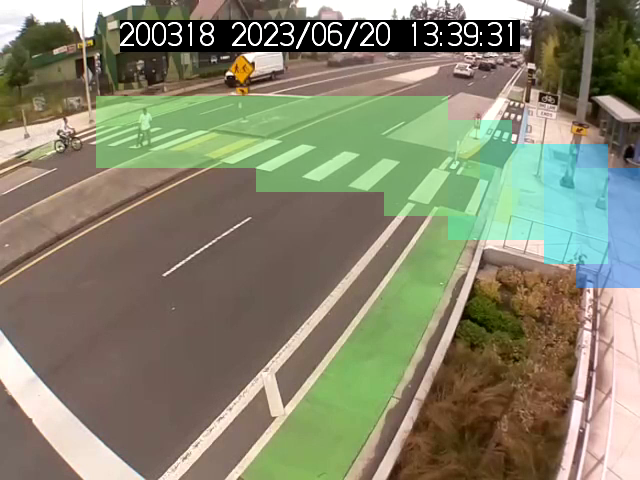
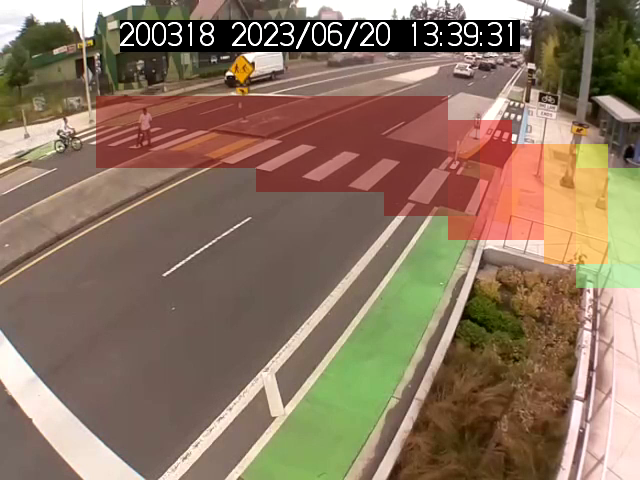
PET updates

Changed region(s): [[0.125, 0.1875, 1.0, 0.625]]

diff --git a/PET_deepSORT.py b/PET_deepSORT.py
@@ -3,6 +3,11 @@ Post Encroachment Time (PET) conflict zone detection.
 Uses a grid over the frame to detect when pedestrians and cyclists share or recently
 shared the same zone within a time window, computes PET, and outputs conflict events to CSV
 and a video with highlighted conflict zones.
+
+PET definition (standard): PET(A1,A2,CA) = t_entry(A2,CA) - t_exit(A1,CA), the time gap
+between one actor leaving and the other entering the conflict area; scale [0, inf) s.
+PET is undefined when both occupy the conflict area before either leaves (overlap).
+Reference: https://criticality-metrics.readthedocs.io/en/latest/time-scale/PET.html
 """
 import cv2
 import argparse
@@ -13,6 +18,9 @@ import torch
 import numpy as np
 import pandas as pd
 from tqdm import tqdm
+import matplotlib
+matplotlib.use("Agg")
+import matplotlib.pyplot as plt
 from deep_sort_realtime.deepsort_tracker import DeepSort
 
 # --- Configuration ---
@@ -100,28 +108,26 @@ def _neighbor_cells(r, c, grid_rows, grid_cols, include_self=True):
 
 def _build_heatmap_image(cell_pet_values, grid_rows, grid_cols, width, height, fps, max_pet_time, first_frame):
     """
-    Build a heatmap image: grid with average signed PET per cell.
-    Negative PET = overlap = higher risk = red; positive = lower risk = blue.
+    Build a heatmap: average standard PET per cell (PET in [0, inf), time gap).
+    Low PET = more critical = red; high PET = less critical = blue.
     Returns BGR image (faint overlay over first_frame).
     """
     max_sec = max_pet_time / fps if fps > 0 else 1.0
-    # Grid of average signed PET (seconds); NaN where no data
+    # Grid of average standard PET (seconds) per cell; NaN where no data
     heat = np.full((grid_rows, grid_cols), np.nan, dtype=np.float64)
     for (r, c), values in cell_pet_values.items():
         if 0 <= r < grid_rows and 0 <= c < grid_cols and values:
-            heat[r, c] = np.mean(values)
+            # Standard PET = |signed|; overlap (0) is most critical
+            heat[r, c] = np.mean([abs(v) for v in values])
 
-    # Normalize: signed PET in [-max_sec, max_sec] -> 0-255 for colormap
-    # 0 = most negative (red/high risk), 128 = zero, 255 = most positive (blue/lower risk)
+    # Normalize: standard PET in [0, max_sec] -> 0 = red (critical), high = blue (safe)
     heat_uint8 = np.full((grid_rows, grid_cols), 128, dtype=np.uint8)  # no-data = 128 (gray)
     valid = ~np.isnan(heat)
     if np.any(valid):
-        v = np.clip(heat[valid], -max_sec, max_sec)
-        # 0 -> 255 (red), 0.5 -> 128, 1 -> 0 (blue). So idx = (1 - (v + max_sec) / (2*max_sec)) * 255
-        norm = (v + max_sec) / (2.0 * max_sec)
-        heat_uint8[valid] = (255 * (1.0 - norm)).clip(0, 255).astype(np.uint8)
+        v = np.clip(heat[valid], 0.0, max_sec)
+        norm = v / max_sec  # 0 -> 0, max_sec -> 1
+        heat_uint8[valid] = (255 * (1.0 - norm)).clip(0, 255).astype(np.uint8)  # 0 PET -> 255 (red), high -> 0 (blue)
 
-    # OpenCV JET: 0=blue, 255=red. We have high uint8 = negative PET = risk, so we want red.
     heat_color = cv2.applyColorMap(heat_uint8, cv2.COLORMAP_JET)
     heat_color = cv2.resize(heat_color, (width, height), interpolation=cv2.INTER_NEAREST)
 
@@ -192,6 +198,9 @@ def process_video(
     # Per-cell signed PET values for heatmap (average PET per cell); negative = overlap = higher risk
     cell_pet_values = defaultdict(list)
 
+    # Per-frame PET values for "average PET over time" plot
+    frame_to_pets = defaultdict(list)
+
     # Only record when a cell newly enters conflict (not every frame) to get one row per incident
     conflict_cells_previous_frame = set()
 
@@ -227,6 +236,7 @@ def process_video(
                 conf=confidence_threshold,
                 iou=iou_threshold,
                 agnostic_nms=False,
+                verbose=False,
             )
 
             boxes_data = []
@@ -306,7 +316,12 @@ def process_video(
                 if not ped_list or not cyc_list:
                     continue
 
-                # PET: minimum absolute time difference and signed PET (negative = temporal overlap = higher risk)
+                # Post Encroachment Time (PET): time gap between one actor leaving and the other
+                # entering the conflict area (CA). Definition: PET(A1,A2,CA) = t_entry(A2,CA) - t_exit(A1,CA)
+                # with t_entry(A2) >= t_exit(A1); scale [0, inf) s. PET undefined when both occupy CA
+                # before either leaves (overlap). See: https://criticality-metrics.readthedocs.io/en/latest/time-scale/PET.html
+                # We use frame indices as proxies for presence in the cell; minimum gap over (ped,cyclist)
+                # pairs gives PET = |t2 - t1|/fps (standard PET, non-negative). Overlap = same frame -> PET undefined (we output 0).
                 pet_frames = None
                 signed_pet_frames = None
                 for (fp, idp) in ped_list:
@@ -314,7 +329,7 @@ def process_video(
                         d = abs(fp - fc)
                         if pet_frames is None or d < pet_frames:
                             pet_frames = d
-                            # Signed: pedestrian_frame - cyclist_frame; negative = cyclist later = overlap
+                            # Order: positive = ped exited before cyc entered (PET = (fc-fp)/fps); negative = overlap / cyc first
                             signed_pet_frames = fp - fc
                             best_ped_id = idp
                             best_cyclist_id = idc
@@ -323,9 +338,12 @@ def process_video(
                     continue
 
                 conflict_cells_this_frame.add((r, c))
-                pet_seconds = pet_frames / fps if fps > 0 else 0.0
+                # Standard PET (non-negative, seconds): time between one leaving and other entering
+                pet_seconds = (pet_frames / fps) if fps > 0 else 0.0
                 signed_pet_seconds = (signed_pet_frames / fps) if (fps > 0 and signed_pet_frames is not None) else 0.0
                 time_sec = frame_count / fps if fps > 0 else 0.0
+                overlap = pet_frames == 0  # PET undefined per definition when both in CA
+                frame_to_pets[frame_count].append(signed_pet_seconds)
 
                 # Record event when this cell newly enters conflict (not already in previous frame)
                 if (r, c) not in conflict_cells_previous_frame:
@@ -336,6 +354,7 @@ def process_video(
                         'cell_col': c,
                         'pet_frames': pet_frames,
                         'pet_seconds': round(pet_seconds, 3),
+                        'pet_undefined_overlap': overlap,
                         'signed_pet_frames': signed_pet_frames,
                         'signed_pet_seconds': round(signed_pet_seconds, 3),
                         'pedestrian_id': best_ped_id,
@@ -444,9 +463,54 @@ def process_video(
             )
             cv2.imwrite(output_heatmap_path, heatmap_img)
 
+    # Plot: average standard PET over time (PET = time gap [0, inf) s; lower = more critical)
+    output_plot_path = base + "_PET_over_time.png"
+    if frame_to_pets:
+        frames_sorted = sorted(frame_to_pets.keys())
+        time_sec_arr = np.array(frames_sorted, dtype=float) / fps if fps > 0 else np.array(frames_sorted)
+        # Standard PET = |signed| per value; average per frame
+        avg_pet_arr = np.array([
+            np.mean([abs(p) for p in frame_to_pets[f]]) for f in frames_sorted
+        ])
+        fig, ax = plt.subplots(figsize=(10, 4))
+        ax.plot(time_sec_arr, avg_pet_arr, color="steelblue", linewidth=1)
+        ax.axhline(0, color="gray", linestyle="--", linewidth=0.8)
+        ax.set_ylim(0, None)
+        ax.set_xlabel("Time (s)")
+        ax.set_ylabel("Average PET (s)")
+        ax.set_title("Average PET over time (lower = more critical; PET = time gap between one leaving and other entering)")
+        ax.grid(True, alpha=0.3)
+        fig.tight_layout()
+        fig.savefig(output_plot_path, dpi=150)
+        plt.close(fig)
+
+    # Plot: Risk = 1/(1+PET); higher risk when PET is low (critical). Standard definition: lower PET = more critical.
+    output_risk_plot_path = base + "_Risk_PET_over_time.png"
+    if frame_to_pets:
+        frames_sorted = sorted(frame_to_pets.keys())
+        time_sec_arr = np.array(frames_sorted, dtype=float) / fps if fps > 0 else np.array(frames_sorted)
+        # Risk = 1/(1+PET_standard); PET=0 (or overlap) -> risk=1, large PET -> risk~0
+        risk_per_frame = np.array([
+            np.mean([1.0 / (1.0 + abs(p)) for p in frame_to_pets[f]]) for f in frames_sorted
+        ])
+        fig, ax = plt.subplots(figsize=(10, 4))
+        ax.plot(time_sec_arr, risk_per_frame, color="crimson", linewidth=1)
+        ax.axhline(0, color="gray", linestyle="--", linewidth=0.8)
+        ax.set_ylim(0, 1.05)
+        ax.set_xlabel("Time (s)")
+        ax.set_ylabel("Risk 1/(1+PET)")
+        ax.set_title("Risk over time (higher = lower PET = more critical)")
+        ax.grid(True, alpha=0.3)
+        fig.tight_layout()
+        fig.savefig(output_risk_plot_path, dpi=150)
+        plt.close(fig)
+
     tqdm.write(f"Video:   {os.path.abspath(output_video_path)}")
     tqdm.write(f"CSV:     {os.path.abspath(output_csv_path)}")
     tqdm.write(f"Heatmap: {os.path.abspath(output_heatmap_path)}")
+    if frame_to_pets:
+        tqdm.write(f"Plot:    {os.path.abspath(output_plot_path)}")
+        tqdm.write(f"Risk:    {os.path.abspath(output_risk_plot_path)}")
 
     return df
 
